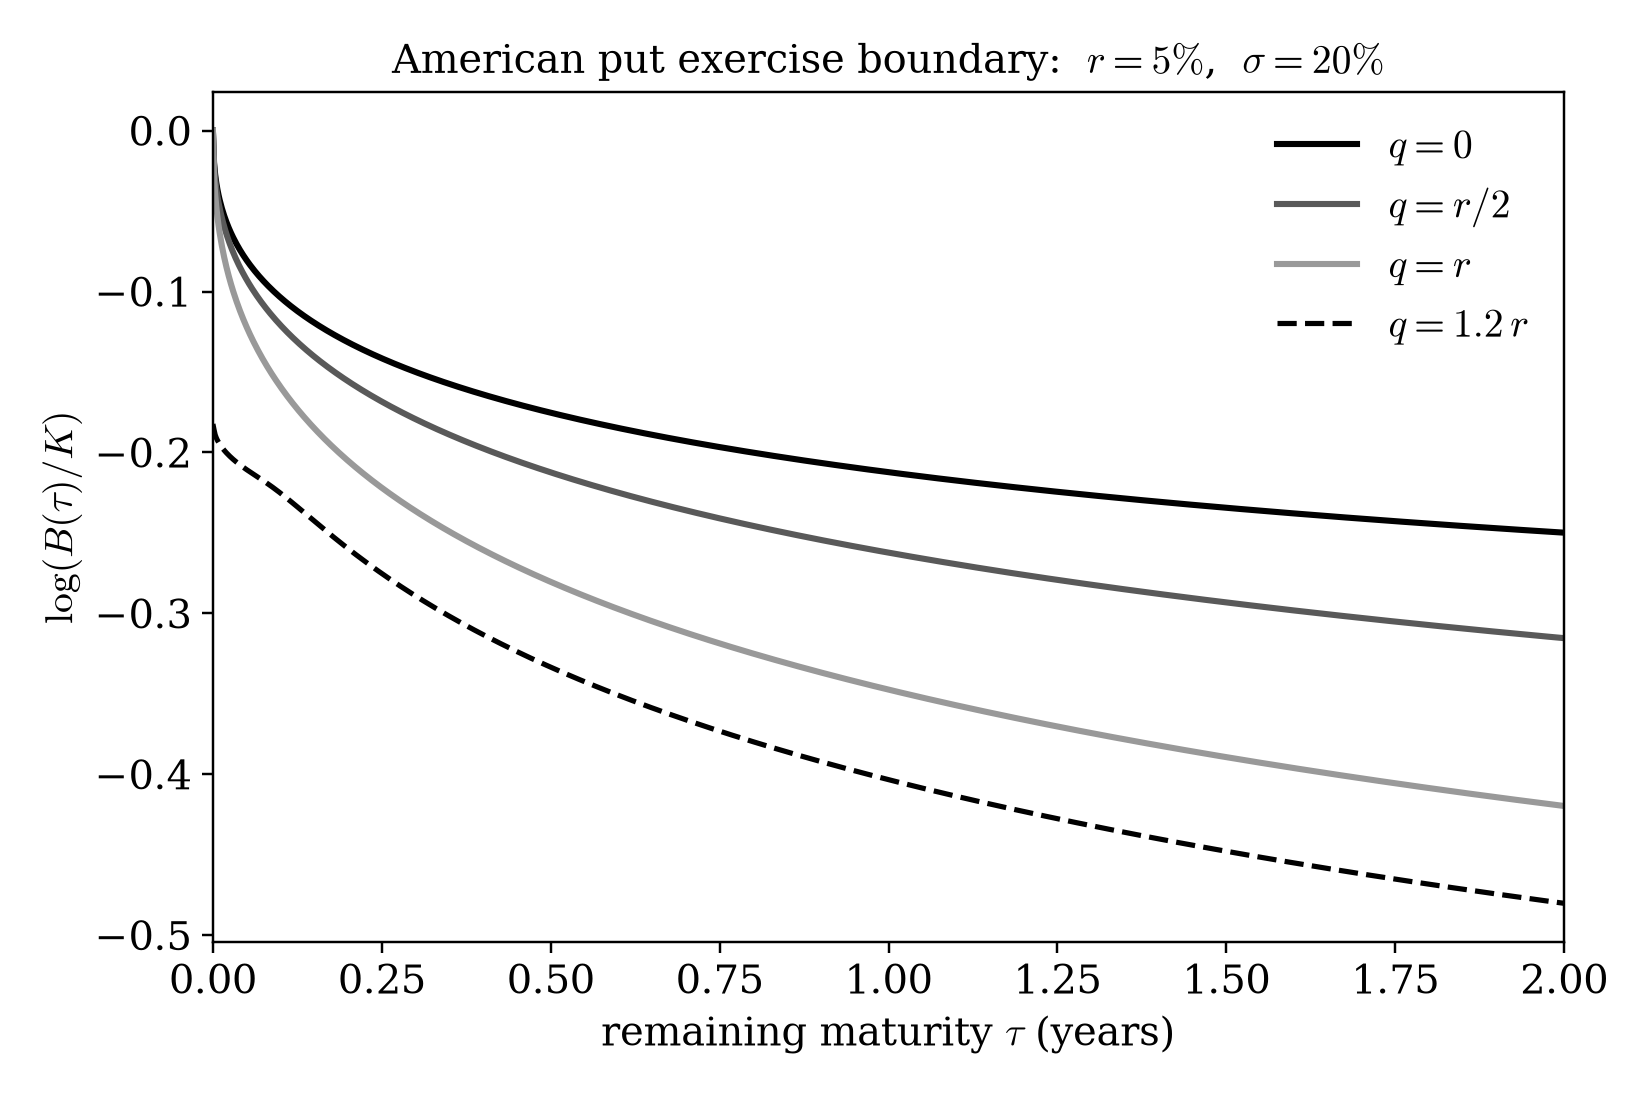
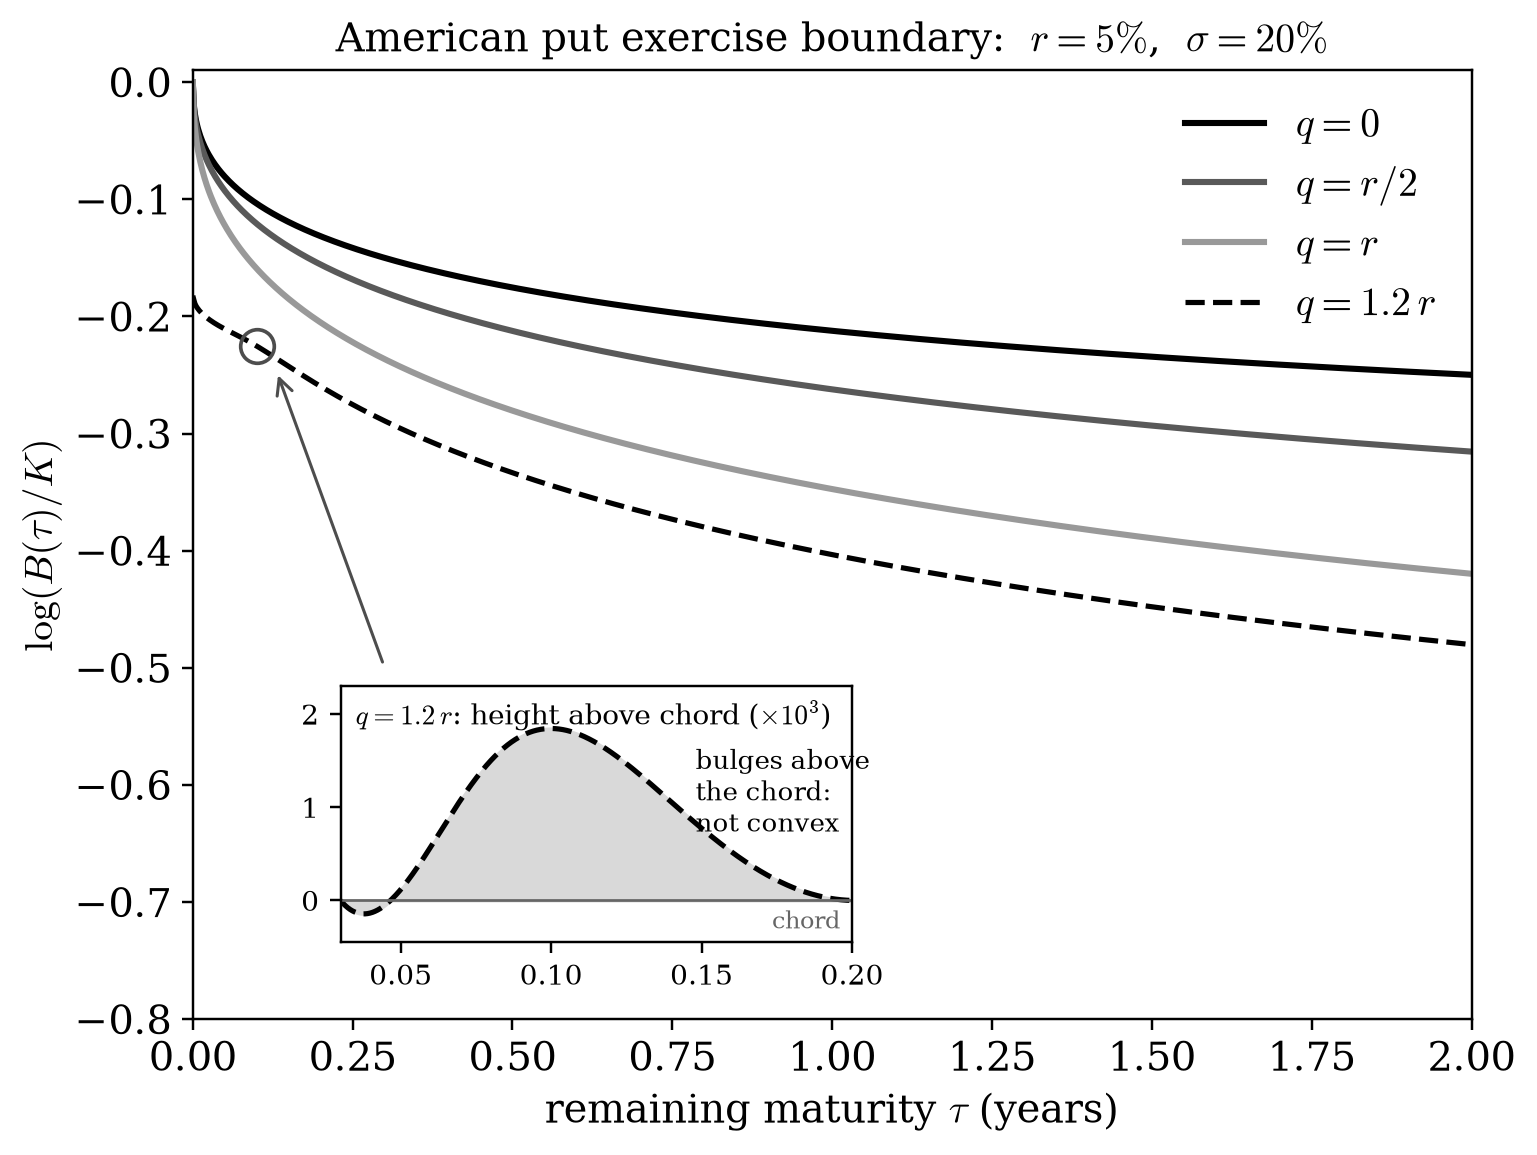
Figure: inset showing the loss of convexity for q slightly above r
Claude-Session: https://claude.ai/code/session_01UiYgXHegX6H7oV3UafCeZJ

diff --git a/paper/log-convexity.tex b/paper/log-convexity.tex
@@ -16,7 +16,7 @@
 \newcommand{\E}{\mathbb{E}}
 \newcommand{\phat}{\widehat p}
 
-\title{Log-convexity of the exercise boundary of an American put option}
+\title{Log-convexity of the exercise boundary of an American put option with positive dividends}
 \author{Robert Martin\thanks{The proof was developed by GPT-6 Pro
   (Astra) and checked by Fable 5.1 (high). The result was formally verified in
   Lean, primarily by gpt-6-astra-high in Codex. The writeup was drafted

diff --git a/README.md b/README.md
@@ -17,7 +17,8 @@ been submitted or peer reviewed.
 *The logarithm of the exercise boundary against remaining maturity for
 $r=5\%$, $\sigma=20\%$, computed from Kim's integral equation. The curves
 for $q\le r$ are convex; the dashed curve has $q=1.2\,r$, where convexity
-is known to fail.*
+is known to fail. The failure is small, so the inset plots the height of
+that curve above its own chord near expiry: it bulges above.*
 
 ## Result
 
